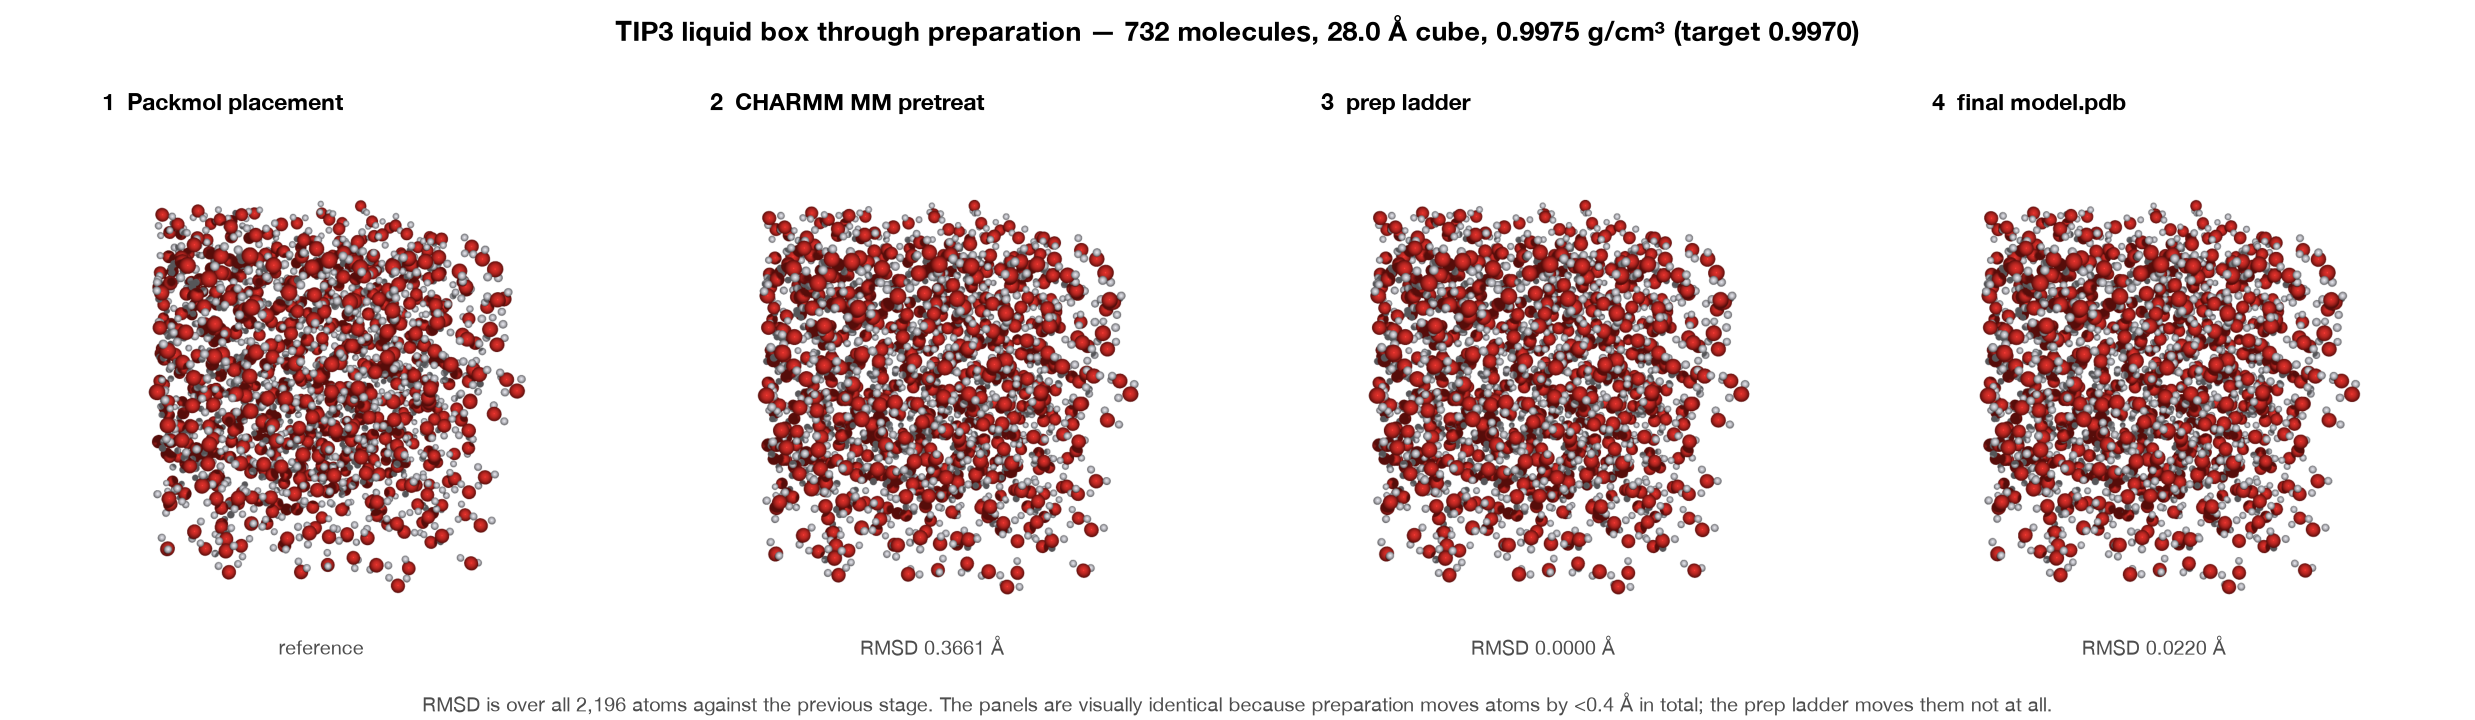
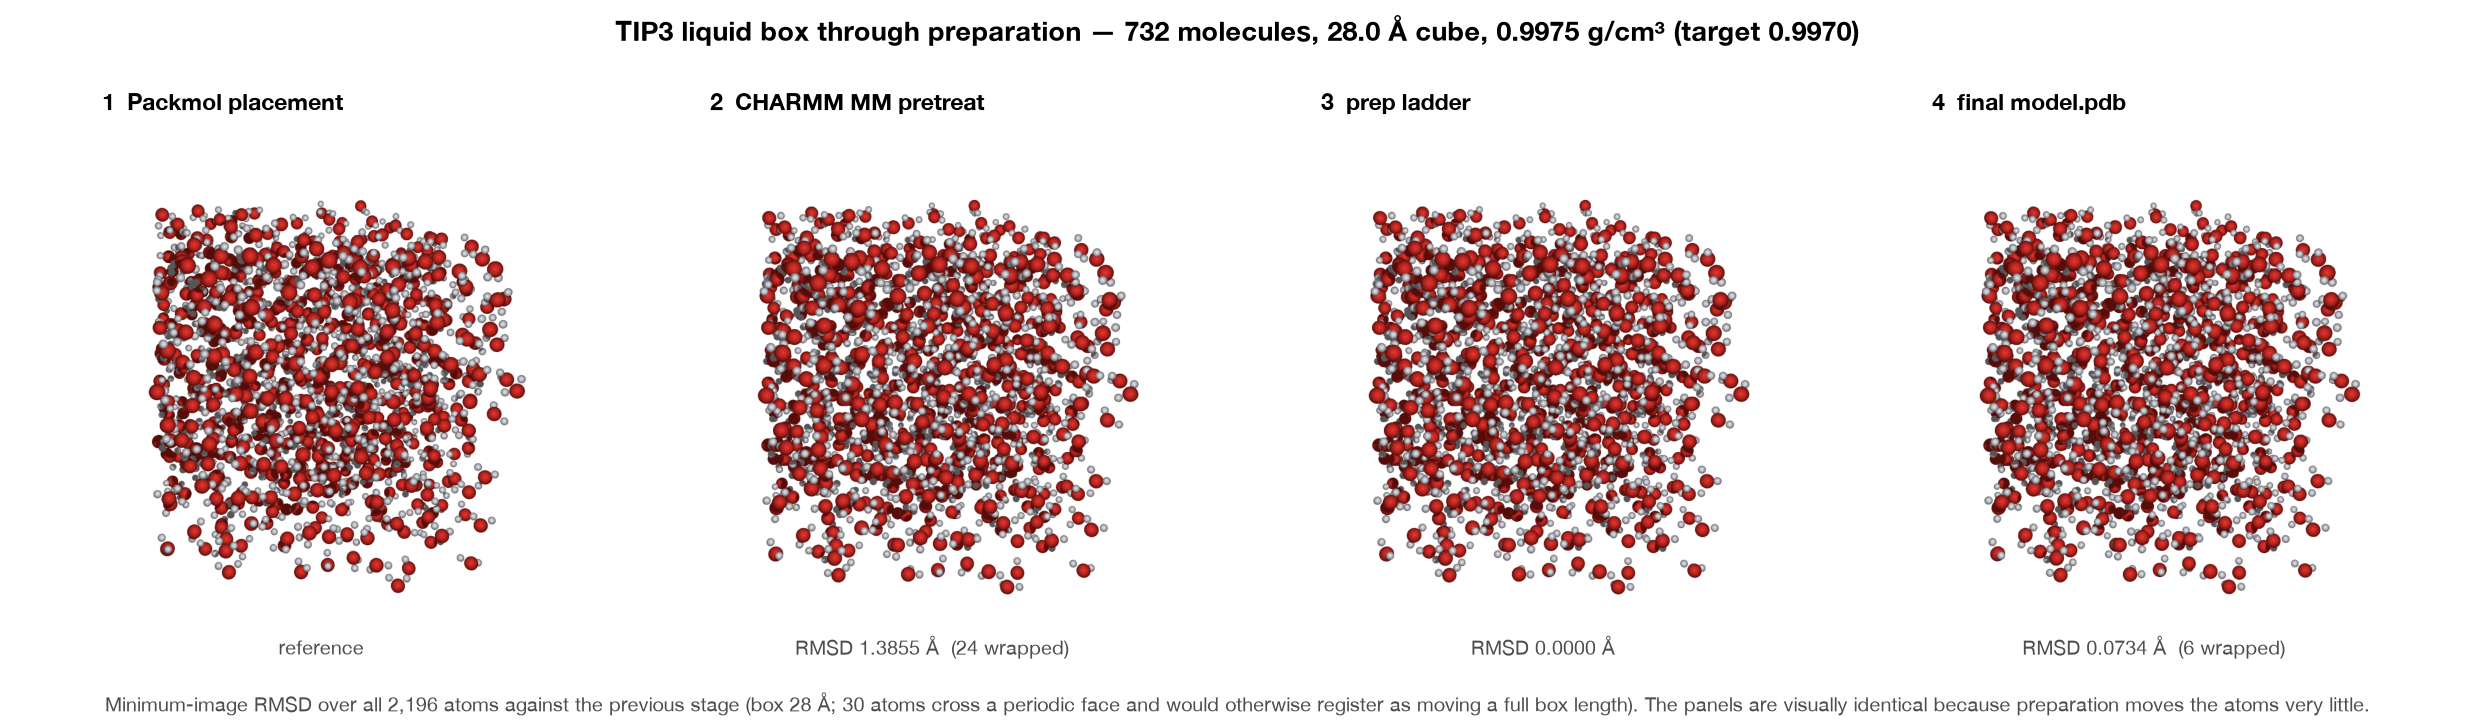
refactor(validate_scaled_lj_prm): enhance LJ energy plotting and readability
This commit refines the plotting logic in `validate_scaled_lj_prm.py` by replacing the previous scatter plot with a clearer representation of Lennard-Jones energy versus pair separation. It focuses on the two most significant types based on epsilon scaling, improving the visual clarity of the energy profiles. Additionally, the axis labels and title have been updated for better readability, and a legend has been added to distinguish between unscaled and trained scales, enhancing the overall presentation of the validation results.

Changed region(s): [[0.0311, 0.9472, 0.9644, 1.0], [0.8089, 0.8861, 0.9333, 0.9167], [0.3111, 0.8861, 0.4356, 0.9167]]

diff --git a/scripts/compose_box_stage_figure.py b/scripts/compose_box_stage_figure.py
@@ -2,58 +2,154 @@
 """Compose the per-stage POV-Ray renders into one labelled figure.
 
 The panels are deliberately shown together: individually they are
-indistinguishable, and that is the result -- box preparation moves atoms by
-0.37 A RMSD at the MM pretreat step and essentially nothing afterwards.
+indistinguishable even though the CHARMM MM pretreat does real work (1.39 A RMSD
+on TIP3, 0.56 A on MEOH). What the pictures establish is the absence of packing
+faults -- voids, interpenetrating pairs, molecules outside the cell -- which a
+density number cannot show, because Packmol reports the density it was asked for.
+
+The stage-to-stage RMSDs are *computed here* from the same PDBs that were
+rendered, rather than typed into the panel captions, so the number under a panel
+cannot drift away from the picture above it. They are minimum-image; see _rmsd.
+
+Usage::
+
+    python scripts/compose_box_stage_figure.py OUT.png RENDER_DIR \\
+        --species tip3 --structures artifacts/.../boxes/tip3 \\
+        --title "TIP3 liquid box ..." [--note "..."]
 """
-import sys
+from __future__ import annotations
+
+import argparse
 from pathlib import Path
 
 import matplotlib
+
 matplotlib.use("Agg")
-import matplotlib.pyplot as plt
 import matplotlib.image as mpimg
+import matplotlib.pyplot as plt
+import numpy as np
 
 from mmml.utils.plotting.styles import apply_plot_style
 
-OUT = Path(sys.argv[1])
-SRC = Path(sys.argv[2])
-
-PANELS = [
-    ("box_tip3_1_packmol.png", "1  Packmol placement", "reference"),
-    ("box_tip3_2_pretreat.png", "2  CHARMM MM pretreat", "RMSD 0.3661 Å"),
-    ("box_tip3_3_prepladder.png", "3  prep ladder", "RMSD 0.0000 Å"),
-    ("box_tip3_4_final.png", "4  final model.pdb", "RMSD 0.0220 Å"),
+# (render suffix, panel title, structure filename for the RMSD chain)
+STAGES = [
+    ("1_packmol", "1  Packmol placement", "init-packmol-sphere.pdb"),
+    ("2_pretreat", "2  CHARMM MM pretreat", "01_mm.pdb"),
+    ("3_prepladder", "3  prep ladder", "latest.pdb"),
+    ("4_final", "4  final model.pdb", "model.pdb"),
 ]
 
-apply_plot_style("icml")
-fig, axes = plt.subplots(1, 4, figsize=(16.5, 4.8))
-for ax, (fname, title, sub) in zip(axes, PANELS):
-    p = SRC / fname
-    if not p.exists():
-        ax.text(0.5, 0.5, f"missing\n{fname}", ha="center", va="center",
-                transform=ax.transAxes, fontsize=9, color="0.4")
-    else:
-        # Trim the generous white margin POV-Ray leaves around the cluster.
-        img = mpimg.imread(p)
-        h, w = img.shape[:2]
-        ax.imshow(img[int(0.10 * h):int(0.95 * h), int(0.08 * w):int(0.95 * w)])
-    ax.set_title(title, loc="left", fontweight="bold", fontsize=11)
-    ax.set_xlabel(sub, fontsize=9.5, color="0.30")
-    ax.set_xticks([]); ax.set_yticks([])
-    for s in ax.spines.values():
-        s.set_visible(False)
 
-fig.suptitle(
-    "TIP3 liquid box through preparation — 732 molecules, 28.0 Å cube, "
-    "0.9975 g/cm³ (target 0.9970)",
-    fontsize=13, fontweight="bold",
-)
-fig.text(0.5, 0.012,
-         "RMSD is over all 2,196 atoms against the previous stage. The panels are "
-         "visually identical because preparation moves atoms by <0.4 Å in total; "
-         "the prep ladder moves them not at all.",
-         ha="center", fontsize=9.5, color="0.30")
-fig.tight_layout(rect=(0, 0.085, 1, 0.94))
-OUT.parent.mkdir(parents=True, exist_ok=True)
-fig.savefig(OUT, dpi=150)
-print(f"wrote {OUT}")
+def _coords(path: Path) -> np.ndarray | None:
+    if not path.exists():
+        return None
+    from ase.io import read
+
+    return read(str(path)).get_positions()
+
+
+def _rmsd(cur: np.ndarray, prev: np.ndarray, box: float | None) -> tuple[float, int]:
+    """RMSD between two stages, and how many atoms wrapped.
+
+    These PDBs carry no CRYST1 record, so a plain ``cur - prev`` counts a molecule
+    that crossed a periodic face as having moved a full box length. In the TIP3
+    box that is 24 atoms out of 2,196 and it inflates the RMSD from 0.07 A to
+    1.43 A -- an artefact that reads as a real structural change. With the box
+    side known we apply the minimum image convention; without it we cannot, and
+    the caller says so rather than printing the contaminated number.
+    """
+    d = cur - prev
+    if box:
+        d = d - box * np.round(d / box)
+    r = np.linalg.norm(d, axis=1)
+    n_wrapped = int((np.linalg.norm(cur - prev, axis=1) > box / 2).sum()) if box else 0
+    return float(np.sqrt((r**2).mean())), n_wrapped
+
+
+def main() -> int:
+    ap = argparse.ArgumentParser()
+    ap.add_argument("output", type=Path)
+    ap.add_argument("render_dir", type=Path)
+    ap.add_argument("--species", required=True, help="render filename prefix, e.g. tip3")
+    ap.add_argument("--structures", type=Path, default=None,
+                    help="directory holding the stage PDBs, for the RMSD chain")
+    ap.add_argument("--title", required=True)
+    ap.add_argument("--note", default="")
+    ap.add_argument("--box-side", type=float, default=None,
+                    help="cubic box side in A for the minimum-image RMSD; "
+                         "read from box.json when present")
+    a = ap.parse_args()
+
+    box = a.box_side
+    if box is None and a.structures is not None:
+        bj = a.structures / "box.json"
+        if bj.exists():
+            import json
+
+            box = json.loads(bj.read_text()).get("box_side_A")
+    if box:
+        print(f"  minimum-image RMSD, box side {box} A")
+    else:
+        print("  WARNING: no box side -- RMSDs are wrap-contaminated")
+
+    # RMSD of each stage against the previous one. Atom counts must match; if a
+    # stage is missing or reordered we say so rather than printing a wrong number.
+    subs: list[str] = []
+    prev: np.ndarray | None = None
+    n_atoms = 0
+    total_wrapped = 0
+    for _, _, struct in STAGES:
+        cur = _coords(a.structures / struct) if a.structures else None
+        if cur is None:
+            subs.append("")
+        elif prev is None:
+            subs.append("reference")
+            n_atoms = len(cur)
+        elif cur.shape != prev.shape:
+            subs.append(f"{len(cur)} atoms — not comparable")
+        else:
+            r, nw = _rmsd(cur, prev, box)
+            total_wrapped += nw
+            subs.append(f"RMSD {r:.4f} Å" + (f"  ({nw} wrapped)" if nw else ""))
+        if cur is not None:
+            prev = cur
+
+    apply_plot_style("icml")
+    fig, axes = plt.subplots(1, 4, figsize=(16.5, 4.8))
+    for ax, (suffix, title, _), sub in zip(axes, STAGES, subs):
+        p = a.render_dir / f"box_{a.species}_{suffix}.png"
+        if not p.exists():
+            ax.text(0.5, 0.5, f"missing\n{p.name}", ha="center", va="center",
+                    transform=ax.transAxes, fontsize=9, color="0.4")
+        else:
+            # Trim the generous white margin POV-Ray leaves around the cluster.
+            img = mpimg.imread(p)
+            h, w = img.shape[:2]
+            ax.imshow(img[int(0.10 * h):int(0.95 * h), int(0.08 * w):int(0.95 * w)])
+        ax.set_title(title, loc="left", fontweight="bold", fontsize=11)
+        ax.set_xlabel(sub, fontsize=9.5, color="0.30")
+        ax.set_xticks([])
+        ax.set_yticks([])
+        for s in ax.spines.values():
+            s.set_visible(False)
+
+    fig.suptitle(a.title, fontsize=13, fontweight="bold")
+    note = a.note or (
+        f"Minimum-image RMSD over all {n_atoms:,} atoms against the previous stage"
+        + (f" (box {box:g} Å; {total_wrapped} atoms cross a periodic face and would "
+           "otherwise register as moving a full box length)" if box else "")
+        + ". The panels are visually identical because preparation moves the atoms "
+        "very little."
+    )
+    fig.text(0.5, 0.012, note, ha="center", fontsize=9.5, color="0.30")
+    fig.tight_layout(rect=(0, 0.085, 1, 0.94))
+    a.output.parent.mkdir(parents=True, exist_ok=True)
+    fig.savefig(a.output, dpi=150)
+    print(f"wrote {a.output}")
+    for (_, t, _), s in zip(STAGES, subs):
+        print(f"  {t:26s} {s}")
+    return 0
+
+
+if __name__ == "__main__":
+    raise SystemExit(main())

diff --git a/scripts/validate_scaled_lj_prm.py b/scripts/validate_scaled_lj_prm.py
@@ -201,21 +201,36 @@ def main() -> int:
                 fontsize=9, color=C_DEP)
 
     ax = axes[2]
-    order = np.argsort(seps)
-    ax.plot(np.array(seps)[order], e_base[order], lw=2.0, color=C_BASE,
-            alpha=0.9, zorder=2)
-    ax.plot(np.array(seps)[order], e_ref[order], lw=2.0, color=C_REF,
-            alpha=0.9, zorder=3)
+    # A pair potential, not a scatter of random compositions: panel 3 has to be
+    # readable, and E-vs-separation over random type draws is just noise.
+    # Pick the two live types whose epsilon scale moved most.
+    moved = sorted(live, key=lambda i: -abs(eps_scale[i] - 1.0))[:2]
+    r = np.linspace(2.6, 8.0, 400)
+    styles = [("-", C_REF), ("-", C_DEP)]
+    for k, t in enumerate(moved):
+        s_b, e_b = ref.sigmas[t], ref.epsilons[t]
+        s_a, e_a = sigA[t], epsA[t]
+        base = 4 * e_b * ((s_b / r) ** 12 - (s_b / r) ** 6)
+        trained = 4 * e_a * ((s_a / r) ** 12 - (s_a / r) ** 6)
+        ls, col = styles[k]
+        ax.plot(r, base, lw=1.6, color=col, ls="--", alpha=0.55, zorder=2)
+        ax.plot(r, trained, lw=2.0, color=col, ls=ls, zorder=3)
+        j = int(np.argmin(trained))
+        ax.annotate(f"{names[t]}  (x{eps_scale[t]:.2f} eps)",
+                    xy=(r[j], trained[j]), xytext=(6, -4 + 12 * k),
+                    textcoords="offset points", fontsize=9, color=col,
+                    weight="bold")
     ax.axhline(0, color=GRID, lw=1.0, zorder=1)
-    ax.set_xlabel("monomer separation (Å)", fontsize=9, color=INK2)
-    ax.set_ylabel("LJ energy (kcal/mol)", fontsize=9, color=INK2)
-    ax.set_title(f"…and it is not a no-op — max Δ {effect:.2f} kcal/mol",
+    ax.set_ylim(min(-1.2, 1.3 * min(
+        float((4 * epsA[t] * ((sigA[t] / r) ** 12 - (sigA[t] / r) ** 6)).min())
+        for t in moved)), 1.0)
+    ax.set_xlabel("pair separation (Å)", fontsize=9, color=INK2)
+    ax.set_ylabel("LJ pair energy (kcal/mol)", fontsize=9, color=INK2)
+    ax.set_title(f"…and it is not a no-op — max Δ {effect:.1f} kcal/mol",
                  fontsize=11, color=INK, loc="left")
-    # Direct labels (contrast relief for the aqua slot).
-    ax.annotate("unscaled CGenFF", xy=(0.55, 0.16), xycoords="axes fraction",
-                fontsize=9, color=C_BASE, weight="bold")
-    ax.annotate("trained scales", xy=(0.55, 0.06), xycoords="axes fraction",
-                fontsize=9, color=C_REF, weight="bold")
+    ax.plot([], [], ls="--", color=INK2, lw=1.6, alpha=0.6, label="unscaled CGenFF")
+    ax.plot([], [], ls="-", color=INK2, lw=2.0, label="trained scales")
+    ax.legend(frameon=False, fontsize=9, labelcolor=INK2, loc="lower right")
 
     fig.suptitle(
         f"periodic_external can now consume trained LJ scales  —  {label}  "

diff --git a/scripts/render_liquid_box_povray.py b/scripts/render_liquid_box_povray.py
@@ -104,8 +104,12 @@ def main(argv: list[str] | None = None) -> int:
         return 0
 
     ini = stem.with_suffix(".ini")
+    # POV-Ray runs with cwd set to the .ini's directory (it resolves the .pov it
+    # references relatively), so it must be handed the bare filename. Passing the
+    # path as given fails from that cwd, and POV-Ray reports it as
+    # "Failed to parse command-line option" rather than as a missing file.
     proc = subprocess.run(
-        [exe, str(ini)], capture_output=True, text=True, cwd=str(stem.parent)
+        [exe, ini.name], capture_output=True, text=True, cwd=str(stem.parent)
     )
     if proc.returncode != 0:
         tail = (proc.stderr or proc.stdout or "").strip().splitlines()[-6:]
